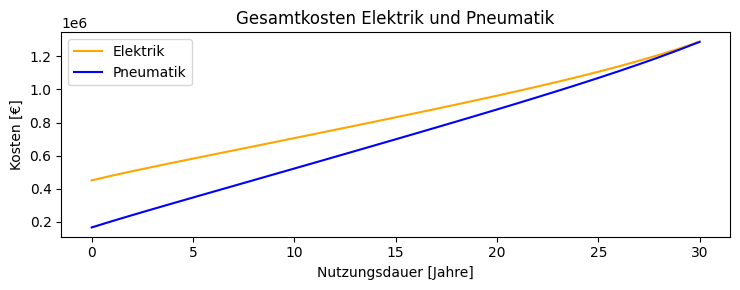
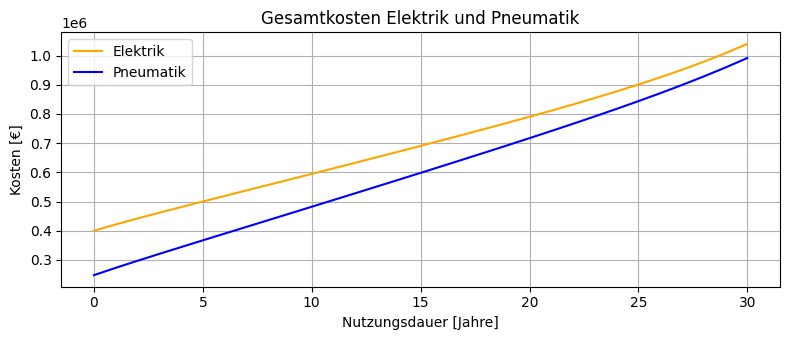
6.2.2024
mit Options Fenster

Changed region(s): [[0.0, 0.031, 0.9946, 0.9621]]

diff --git a/Elektrik-Pneumatik-Vergleichsprogramm.py b/Elektrik-Pneumatik-Vergleichsprogramm.py
@@ -43,12 +43,22 @@ class FullScreenApp:
         self.canvas2 = None
 
         self.component_data = ["Gurtumsetzer", "Staurollenförderer"]
+        self.country_data = ["USA", "China", "Deutschland", "Österreich"]
+
+        self.zoll_el = 0
+        self.zoll_pn = 0
+        self.fracht_el = 0
+        self.fracht_pn = 0
+        self.versicherung = 0 
+    
+
 
         # Standardwerte für Optionen
         self.standardwert_wirkungsgrad_elektrisch = 0.95
-        self.standardwert_wirkungsgrad_pneumatisch = 0.27
+        self.standardwert_wirkungsgrad_pneumatisch = 0.85
         self.standardwert_strompreis = 0.21
-        self.standardwert_ueberschneidungsfaktor = 0.6
+        self.standardwert_ueberschneidungsfaktor = 0.5
+        self.standardwert_rabatt = 0
 
         # Globale Variablen für Optionen
         self.strompreis_entry = tk.DoubleVar(value=self.standardwert_strompreis)
@@ -57,7 +67,7 @@ class FullScreenApp:
         self.ueberschneidungsfaktor_entry = tk.DoubleVar(value=self.standardwert_ueberschneidungsfaktor)
 
         # Globale Variablen für Einstellungen
-        self.rabatte_entry = tk.DoubleVar(value=0)
+        self.rabatt_entry = tk.DoubleVar(value=self.standardwert_rabatt)
 
         # Datentyp für manuelle Daten
         self.selected_component = None
@@ -71,7 +81,8 @@ class FullScreenApp:
             "Energiekosten": tk.StringVar(value=""),  
             "Anschaffungskosten": tk.StringVar(value=""),          
             "BerechnungStarten": tk.StringVar(value="Ja"),
-            "Druck": tk.IntVar(value="")
+            "Druck": tk.IntVar(value=""),
+            "Land": tk.StringVar(value="")
         }
 
         self.create_menu()
@@ -151,7 +162,7 @@ class FullScreenApp:
 
         self.frame_wirkungsgrad = tk.Frame(self.options_window, width=500, height=600, bg="white")
         self.frame_strompreis = tk.Frame(self.options_window, width=500, height=600, bg="white")
-        self.frame_anschaffungskosten = tk.Frame(self.options_window, width=500, height=600, bg="white")
+        self.frame_anschaffungskosten = tk.Frame(self.options_window, width=500, height=600)
         self.frame_wartungskosten = tk.Frame(self.options_window, width=500, height=600, bg="white")
 
         self.frame_wirkungsgrad.pack_propagate(False)
@@ -164,18 +175,18 @@ class FullScreenApp:
         self.hide_frames()
 
     def create_options(self):
-        btn_wirkungsgrad = tk.Button(self.frame_options_btn, text="Wirkungsgrad", font=("Helvetica", 10), command=lambda: self.show_frame(self.frame_wirkungsgrad), bg="white").pack(side="left")
-        btn_strompreis = tk.Button(self.frame_options_btn, text="Strompreis", font=("Helvetica", 10), command=lambda: self.show_frame(self.frame_strompreis), bg="white").pack(side="left")
-        btn_anschaffungskosten = tk.Button(self.frame_options_btn, text="Anschaffungskosten", font=("Helvetica", 10), command=lambda: self.show_frame(self.frame_anschaffungskosten), bg="white").pack(side="left")
-        btn_wartungskosten = tk.Button(self.frame_options_btn, text="Wartungskosten", font=("Helvetica", 10), command=lambda: self.show_frame(self.frame_wartungskosten), bg="white").pack(side="left")
+        btn_wirkungsgrad = tk.Button(self.frame_options_btn, text="Wirkungsgrad", font=("Helvetica", 10), command=lambda: self.show_frame(self.frame_wirkungsgrad), bg="white")
+        btn_strompreis = tk.Button(self.frame_options_btn, text="Strompreis", font=("Helvetica", 10), command=lambda: self.show_frame(self.frame_strompreis), bg="white")
+        btn_anschaffungskosten = tk.Button(self.frame_options_btn, text="Anschaffungskosten", font=("Helvetica", 10), command=lambda: self.show_frame(self.frame_anschaffungskosten), bg="white")
+        btn_wartungskosten = tk.Button(self.frame_options_btn, text="Wartungskosten", font=("Helvetica", 10), command=lambda: self.show_frame(self.frame_wartungskosten), bg="white")
 
-        btn_save = tk.Button(self.frame_options_btn, text="Werte speichern", font=("Helvetica", 10), command=self.save_options, bg="lightgray").pack(side="right")
+        btn_save = tk.Button(self.frame_options_btn, text="Werte speichern", font=("Helvetica", 10), command=self.save_options, bg="lightgray")
 
-        btn_wirkungsgrad.pack(side="left", padx=5)
-        btn_strompreis.pack(side="left", padx=5)
-        btn_anschaffungskosten.pack(side="left", padx=5)
-        btn_wartungskosten.pack(side="left", padx=5)
-        btn_save.pack(side="left", padx=5)
+        btn_wirkungsgrad.pack(side="left")
+        btn_strompreis.pack(side="left")
+        btn_anschaffungskosten.pack(side="left")
+        btn_wartungskosten.pack(side="left")
+        btn_save.pack(side="right")
 
         ttk.Label(self.frame_wirkungsgrad, text="Wirkungsgrad elektrisch:").pack(pady=10)
         wirkungsgrad_elektrisch_entry = ttk.Entry(self.frame_wirkungsgrad, textvariable=self.wirkungsgrad_elektrisch_entry)
@@ -193,6 +204,62 @@ class FullScreenApp:
         ueberschneidungsfaktor_entry = ttk.Entry(self.frame_strompreis, textvariable=self.ueberschneidungsfaktor_entry)
         ueberschneidungsfaktor_entry.pack(pady=5)
 
+        ttk.Label(self.frame_anschaffungskosten, text="Anlagenstandort:", font=("Helvetica", 12)).grid(row=1, column=1, padx=(10, 10), pady=(10, 10))
+        self.country_dropdown = ttk.Combobox(self.frame_anschaffungskosten, values=self.country_data, textvariable=self.manual_data["Land"], width=30)
+        self.country_dropdown.grid(row=1, column=2, padx=(10, 10), pady=(10, 10))
+
+        if self.country_dropdown == "USA":
+            self.fracht_el=10000
+            self.zoll_el=10000
+
+            self.fracht_pn=10000
+            self.zoll_pn=10000
+          
+        elif self.country_dropdown == "China":
+            self.fracht_el=10000
+            self.zoll_el=10000
+
+            self.fracht_pn=10000
+            self.zoll_pn=10000
+           
+        elif self.country_dropdown == "Deutschland":
+            self.fracht_el=10000
+            self.zoll_el=10000
+
+            self.fracht_pn=10000
+            self.zoll_pn=10000
+
+        elif self.country_dropdown == "Österreich":
+            self.fracht_el=10000
+            self.zoll_el=10000
+
+            self.fracht_pn=10000
+            self.zoll_pn=10000
+
+
+        self.verpackung_el=1000
+        ttk.Label(self.frame_anschaffungskosten, text=f"Verpackung Motor: {self.verpackung_el} €", font=("Helvetica", 12)).grid(row=3, column=1)
+
+        self.verpackung_pn=1000
+        ttk.Label(self.frame_anschaffungskosten, text=f"Verpackung Pneumatik: {self.verpackung_pn} €", font=("Helvetica", 12)).grid(row=4, column=1)
+
+        
+        self.montage_el=1000
+        ttk.Label(self.frame_anschaffungskosten, text=f"Montage Motor: {self.montage_el} %", font=("Helvetica", 12)).grid(row=5, column=1)
+   
+        self.montage_pn=1000
+        ttk.Label(self.frame_anschaffungskosten, text=f"Montage Zylinder: {self.montage_pn} €", font=("Helvetica", 12)).grid(row=6, column=1)
+
+
+        self.versicherung=20
+        ttk.Label(self.frame_anschaffungskosten, text=f"Versicherung: {self.versicherung} %", font=("Helvetica", 12)).grid(row=7, column=1)
+
+
+        ttk.Label(self.frame_anschaffungskosten, text="Rabatt:", font=("Helvetica", 12)).grid(row=2, column=1)
+        rabatt_entry = ttk.Entry(self.frame_anschaffungskosten, textvariable=self.rabatt_entry)
+        rabatt_entry.grid(row=2, column=2)
+
+
     def hide_frames(self):
         self.frame_wirkungsgrad.pack_forget()
         self.frame_strompreis.pack_forget()
@@ -208,8 +275,8 @@ class FullScreenApp:
         self.standardwert_wirkungsgrad_pneumatisch = self.wirkungsgrad_pneumatisch_entry.get()
         self.standardwert_strompreis = self.strompreis_entry.get()
         self.standardwert_ueberschneidungsfaktor = self.ueberschneidungsfaktor_entry.get()
-
-
+        self.standardwert_rabatt = self.rabatt_entry.get()
+        self.country_dropdown.get()
 
         # Modify Data input
 
@@ -217,28 +284,28 @@ class FullScreenApp:
 # Einstellungsfenster erstellen
     def open_einstellungen_window(self):
         options_window = tk.Toplevel(self.root)
-        options_window.geometry("250x400")
+        options_window.geometry("550x660+220+170")
         options_window.title("Options")
-
 
 
 # Motoren Vorschau
     def motoren_window(self):
         motoren_window = tk.Toplevel(self.root)
-        motoren_window.geometry("250x400")
+        motoren_window.geometry("600x660x770x170")
         motoren_window.title("Motoren")
 
 
 # Zylinder Vorschau
     def zylinder_window(self):
         zylinder_window = tk.Toplevel(self.root)
-        zylinder_window.geometry("250x400")
+        zylinder_window.geometry("600x660x770x170")
         zylinder_window.title("Zylinder")
+
 
 # Kompressor Vorschau
     def kompressor_window(self):
         kompressor_window = tk.Toplevel(self.root)
-        kompressor_window.geometry("250x400")
+        kompressor_window.geometry("600x660x770x170")
         kompressor_window.title("Kompressoren")
 
 
@@ -316,6 +383,7 @@ class FullScreenApp:
             wirkungsgrad_elektrisch = float(self.wirkungsgrad_elektrisch_entry.get())
             wirkungsgrad_pneumatik = float(self.wirkungsgrad_pneumatisch_entry.get())
             ueberschneidungsfaktor = float(self.ueberschneidungsfaktor_entry.get())
+            rabatt = float(self.rabatt_entry.get())
 
 
             # Die Manuellen Daten aufrufen
@@ -414,7 +482,7 @@ class FullScreenApp:
             routine_wartung_kompressor_kosten = 500         # Euro
             routine_wartung_zylinder_kosten = 250           # Euro
             pi = math.pi
-            kolbendurchmesser = 20      # mm
+            kolbendurchmesser = 35      # mm
             zylindertyp = 2         # einfach wirkend = 1; doppelt wirkend = 2
             vstrom_zylinder = (((kolbendurchmesser/100)**2)*pi)/4 * hub/100 * self.druck * self.durchsatz/60 * zylindertyp        # l/min
             
@@ -423,8 +491,8 @@ class FullScreenApp:
             leistung_pneumatik = ges_vstrom_zylinder/1000 * self.druck * 100000      # Watt
             
             # Anschaffungskosten Berechnung
-            self.anschaffungskosten_elektrik = anschaffungskosten_elektrik_preis * self.anzahl_anlage * bewa
-            self.anschaffungskosten_pneumatik = (anschaffungskosten_pneumatik_preis * self.anzahl_anlage + anschaffungskosten_kompressor_preis) * bewa
+            self.anschaffungskosten_elektrik = (anschaffungskosten_elektrik_preis + self.zoll_el + self.fracht_el + self.verpackung_el + self.montage_el) * self.anzahl_anlage * bewa * (1-rabatt/100) * (1-self.versicherung/100)
+            self.anschaffungskosten_pneumatik = ((anschaffungskosten_pneumatik_preis + self.zoll_pn + self.fracht_pn + self.verpackung_pn + self.montage_pn) * self.anzahl_anlage + anschaffungskosten_kompressor_preis) * bewa * (1-rabatt/100) * (1-self.versicherung/100)
 
             # Energiekosten Berechnung
             self.energiekosten_elektrik = leistung_elektrik * stunden_pro_woche * 52 * self.nutzungsdauer * self.anzahl_anlage * strompreis * bewe / wirkungsgrad_elektrisch       # Euro
@@ -645,6 +713,8 @@ class FullScreenApp:
                 subplot_combined.set_ylabel("Kosten [€]")
                 subplot_combined.legend()
 
+                subplot_combined.grid(True)
+
                 # Create a Tkinter canvas for the combined plot
                 canvas_combined = FigureCanvasTkAgg(figure_combined, master=frame_graph_combined)
                 canvas_combined.get_tk_widget().pack(side=tk.TOP, fill=tk.BOTH, expand=1)
@@ -669,7 +739,7 @@ class FullScreenApp:
                 frame_buttons.place(x=10, y=10)
 
                 # Button hinzufügen
-                tk.Button(frame_buttons, width=30, height=2, font=("Helvetica", 12), text="Hauptmenü", bg = "turquise", command=self.back_to_main_menu).pack(pady=4)
+                tk.Button(frame_buttons, width=30, height=2, font=("Helvetica", 12), text="Hauptmenü", bg = "turquoise", command=self.back_to_main_menu).pack(pady=4)
                 tk.Button(frame_buttons, width=30, height=2, font=("Helvetica", 12), text="Modify manual data", bg = "light grey", command=self.modify_data).pack(pady=4)
                 tk.Button(frame_buttons, width=30, height=2, font=("Helvetica", 12), text="PDF speichern", bg = "light grey", command=self.create_pdf).pack(pady=4)
                 
@@ -768,7 +838,7 @@ class FullScreenApp:
             frame_graph_combined.pack(side=tk.BOTTOM, anchor=tk.CENTER, pady=10)
             
             # Graphen für Pneumatik
-            figure_combined = Figure(figsize=(7.5, 3), tight_layout=True)
+            figure_combined = Figure(figsize=(8, 3.5), tight_layout=True)
 
             # Parameter für Berechnungen
             x = sp.symbols('x')
@@ -787,6 +857,8 @@ class FullScreenApp:
             subplot_combined.set_ylabel("Kosten [€]")
             subplot_combined.legend()
 
+            subplot_combined.grid(True)
+
 
             # Speichere die Figur als Bild
             plot_img = "plot.png"
@@ -794,7 +866,7 @@ class FullScreenApp:
             plt.close(figure_combined)
 
             # Füge das Bild in das PDF ein
-            c.drawInlineImage(plot_img, 30, 30, width=530, height=230)
+            c.drawInlineImage(plot_img, 27, 27, width=540, height=245)
 
             # Logo HTL
             logo_path = r"C:\Users\micha\OneDrive\Dokumente\5AHME\Diplomarbeit\HTL_Logo.png"
